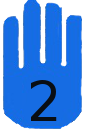
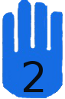
followingdemo

diff --git a/eclipse/Prototype/MarshallMcLuhanAVP/src/com/helper/GlassPane.java b/eclipse/Prototype/MarshallMcLuhanAVP/src/com/helper/GlassPane.java
@@ -21,7 +21,8 @@ public class GlassPane extends JPanel{
 	 */
 	private static final long serialVersionUID = -1360018254627150638L;
 	private JLabel handOne,handTwo;
-	private Dimension small = new Dimension(40,61),big = new Dimension(85,130);
+	private Dimension small = new Dimension(40,61),big = new Dimension(65,99);
+	private boolean big1,big2;
     
     public GlassPane(){
     	this.setLayout(null);
@@ -29,23 +30,30 @@ public class GlassPane extends JPanel{
     	handOne.setSize(small);
     	handOne.setLocation(0, 0);
     	handOne.setVisible(false);
-    	
+    	big1 = false;
     	
     	handTwo = new JLabel(new ImageIcon("lh1.png"));
     	handTwo.setSize(small);
     	handTwo.setLocation(0, 0);
     	handTwo.setVisible(false);
+    	big2 = false;
     	
     	this.add(handOne);
     	this.add(handTwo);
     	this.setSize(new Dimension(1024,768));
     }
     public void setHandOne(Point p) {
-    	handOne.setLocation(p.x-28,p.y-55);
+    	if(!big1)
+    		handOne.setLocation(p.x-28,p.y-55);
+    	else
+    		handOne.setLocation(p.x-9,p.y-75);
     }
 
     public void setHandTwo(Point p) {
-    	handTwo.setLocation(p.x-28,p.y-55);
+    	if(!big2)
+    		handTwo.setLocation(p.x-28,p.y-55);
+    	else
+    		handTwo.setLocation(p.x-9,p.y-75);
     }
 
     public void mouseClicked(MouseEvent e) {
@@ -72,20 +80,25 @@ public class GlassPane extends JPanel{
     public void activeHandOne(){
     	handOne.setIcon(new ImageIcon("rh2.png"));
     	handOne.setSize(big);
+    	big1 = true;
     }
     
     public void activeHandTwo(){
     	handTwo.setIcon(new ImageIcon("lh2.png"));
     	handTwo.setSize(big);
+    	big2 = true;
     }
     
     public void releaseHandOne(){
     	handOne.setIcon(new ImageIcon("rh1.png"));
     	handOne.setSize(small);
+    	big1 = false;
+    	
     }
     public void releaseHandTwo(){
     	handTwo.setIcon(new ImageIcon("lh1.png"));
     	handTwo.setSize(small);
+    	big2 = false;
     }
 
 }

diff --git a/eclipse/Prototype/MarshallMcLuhanAVP/src/com/navmenu/McLuhanMain.java b/eclipse/Prototype/MarshallMcLuhanAVP/src/com/navmenu/McLuhanMain.java
@@ -81,7 +81,7 @@ public class McLuhanMain extends JFrame{
 
 	private JButton[] btns,btns1,btns2,btns3,btns4;
 
-	private Dimension size = new Dimension(1024,768);
+	private Dimension size = new Dimension(1024,468);
 
 	private FPSAnimator animator, animator2;
 	private PhysicsEngine app;
@@ -117,7 +117,7 @@ public class McLuhanMain extends JFrame{
 	
 	private GlassPane hands;
 	
-	private int pushDepth = 900;
+	private int pushDepth = 2000;
 
 	public McLuhanMain() {
 		frame = this;
@@ -125,7 +125,7 @@ public class McLuhanMain extends JFrame{
 		layeredPane = frame.getLayeredPane();
 		layeredPane.setLayout(new BorderLayout());
 		frame.setSize(size);
-		//this.setUndecorated(true);
+		this.setUndecorated(true);
 		bgsel =1;
 		menu = new JPanel();
 		hands = new GlassPane();
@@ -521,6 +521,10 @@ public class McLuhanMain extends JFrame{
 				test.start();
 
 				// Change mode
+				if(hands != null){
+					hands.releaseHandOne();
+					hands.releaseHandTwo();
+				}
 				mode = 1;
 			}
 		});
@@ -633,6 +637,9 @@ public class McLuhanMain extends JFrame{
 			hands.releaseHandTwo();
 			hands.disableHandTwo();
 		}
+		for(int i=0;i<2;i++){
+			handArray[i].setPressed(false);
+		}
 		mode = 0;
 		menu.add("Grabber",grabc);
 		((CardLayout)menu.getLayout()).show(menu, "Grabber");
@@ -721,6 +728,7 @@ public class McLuhanMain extends JFrame{
 				if (select == 0) {
 					return;
 				}
+				System.out.println(action);
 				if (action.compareTo("sessionend") == 0) {
 					mode = 0;
 					startGrabber();
@@ -780,8 +788,7 @@ public class McLuhanMain extends JFrame{
 				if (select == 2) {
 					updateHandTwo(new Point(newX, newY));
 				}
-				
-				if (action.compareTo("steady") == 0 && handArray[select - 1].getPressed() == false) {
+				if (action.compareTo("steady") == 0 ) {
 						switch (select) {
 							case 1:
 								mouseRobot.mouseMove(handArray[select - 1].getX(), handArray[select - 1].getY());

diff --git a/eclipse/Prototype/MarshallMcLuhanAVP/src/com/navmenu/McLuhanServer.java b/eclipse/Prototype/MarshallMcLuhanAVP/src/com/navmenu/McLuhanServer.java
@@ -38,8 +38,10 @@ public class McLuhanServer {
 		Cursor cursor = toolkit.createCustomCursor(image, hotSpot, "hand");
 		
 		McLuhanMain ml = new McLuhanMain();
+
 		ml.setVisible(true);
 		ml.setCursor(cursor);
+		//ml.setUndecorated(true);
 		//screen.setFullScreenWindow(ml);
 		
 		// If the server is going to connect via sockets then wait for Kinect data in a loop

diff --git a/eclipse/Prototype/MarshallMcLuhanAVP/src/com/physics/CentroidConstraint.java b/eclipse/Prototype/MarshallMcLuhanAVP/src/com/physics/CentroidConstraint.java
@@ -51,7 +51,8 @@ public class CentroidConstraint extends PositionableConstraint {
 	}
 
 	public void render(GL2 gl) {
-		gl.glColor3d(0, 0.5, 1);
+		gl.glColor4d(0, 0, 0, 0);
+		//gl.glColor3d(0, 0.5, 1);
 		//gl.glBegin(GL2.GL_LINE_LOOP);
 		gl.glBegin(GL2.GL_QUAD_STRIP);
 		for(int i=0; i<=32; i++) {
